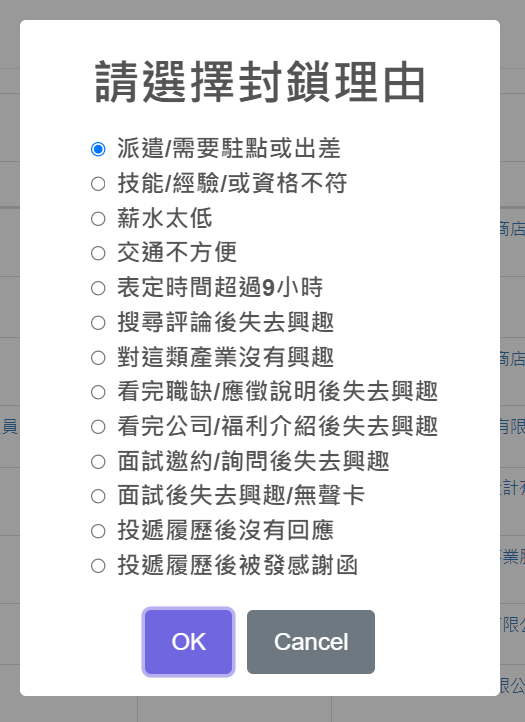
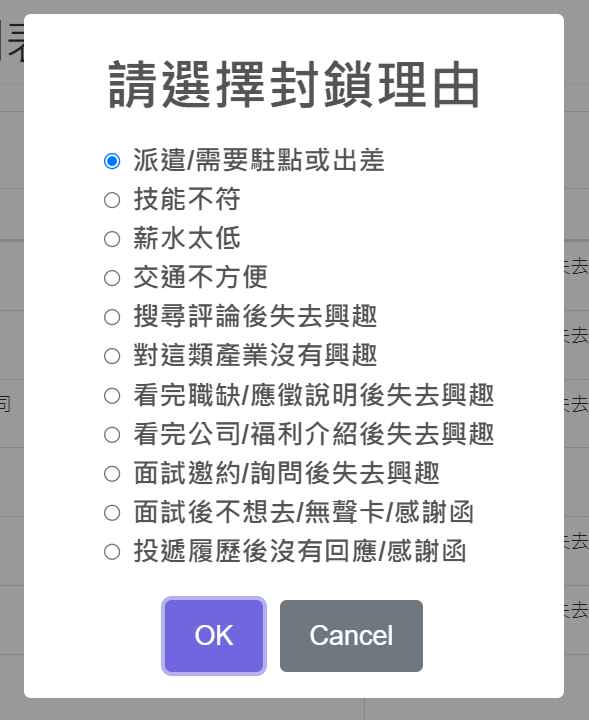
調整封鎖理由

Changed region(s): [[0.1524, 0.1833, 0.8533, 0.7944], [0.0, 0.0, 1.0, 0.9778], [0.1829, 0.0611, 0.8229, 0.1528]]

diff --git a/JobFilter2/Services/Utility.cs b/JobFilter2/Services/Utility.cs
@@ -15,18 +15,16 @@ namespace JobFilter2.Services
         public static Dictionary<string, string> BLOCK_REASON = new Dictionary<string, string>
         {
             { "R01", "派遣/需要駐點或出差" },
-            { "R03", "技能/經驗/或資格不符" },
+            { "R03", "技能不符" },
             { "R04", "薪水太低" },
             { "R02", "交通不方便" },
-            { "R06", "表定時間超過9小時" },
             { "R05", "搜尋評論後失去興趣" },
             { "R08", "對這類產業沒有興趣" },
             { "R09", "看完職缺/應徵說明後失去興趣" },
             { "R13", "看完公司/福利介紹後失去興趣" },
             { "R07", "面試邀約/詢問後失去興趣" },
-            { "R10", "面試後失去興趣/無聲卡" },
-            { "R11", "投遞履歷後沒有回應" },
-            { "R12", "投遞履歷後被發感謝函" },
+            { "R10", "面試後不想去/無聲卡/感謝函" },
+            { "R11", "投遞履歷後沒有回應/感謝函" },
         };
 
         

diff --git a/readme.md b/readme.md
@@ -4,7 +4,7 @@ https://github.com/Jacky20200711/JobFilter
 &emsp;  
 # 改版重點  
 1.修改操作介面  
-2.簡化操作流程(將部分的操作改用ajax來避免跳頁)  
+2.簡化操作流程(將多數的操作改用ajax來避免跳頁)  
 3.去除排除關鍵字的功能(以封鎖工作來取代)  
 4.改用 DB-First 規劃資料庫  
 &emsp;  
